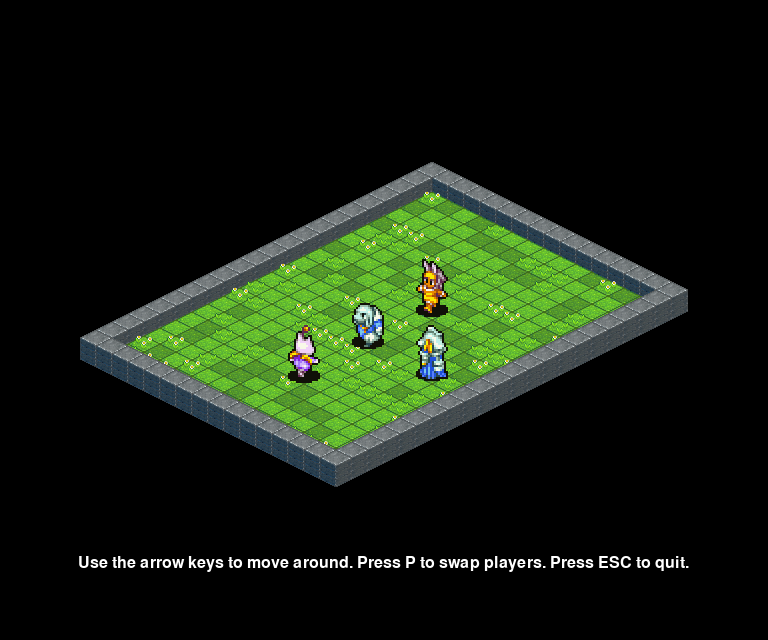
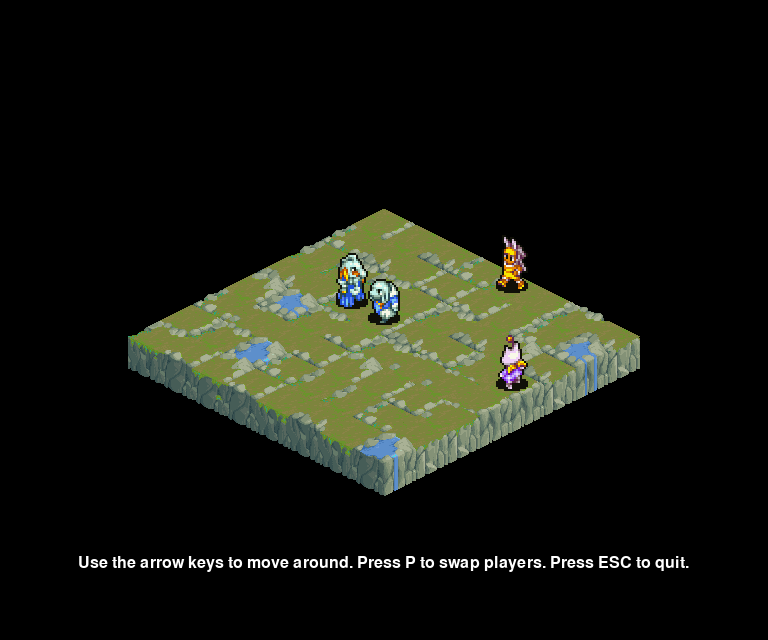
Added static objects and line of sight.

Changed region(s): [[0.0938, 0.25, 0.9062, 0.7812]]

diff --git a/actor.py b/actor.py
@@ -1,43 +1,36 @@
 from spritesheet import SpriteSheet
 import pygame
 import heapq
+from staticobject import StaticObject
+from math import sqrt, pow
 
 __facing_deltas__ = [(0,-1), (1,0), (0,1), (-1,0)]
 
 def manhattan_distance(a, b):
     return abs(a[0] - b[0]) + abs(a[1] - b[1])
 
-class Actor:
+def distance(a, b):
+    return round(sqrt(pow(a[0] - b[0], 2) + pow(a[1] - b[1], 2)))
+
+class Actor(StaticObject):
     def __init__(self, sprites, rects, pos, facing=3):
-        self.sprites = sprites
-        self.pos = pos
+        super().__init__(sprites, rects, pos)
         self.facing = facing
-        self.rects = rects
-        self.x, self.y = pos
         self.dx = 0
         self.dy = 0
         self.path_start = None
         self.path_end = None
         self.speed = 16
         self.moving = False
-        self.animated = type(sprites[0]) == list
         self.move_queue = list()
         self.frame = 0
         self.is_player = False
-        self.room = None
 
     def getMoving(self):
         return self.moving
 
     def get_facing_delta(self):
         return __facing_deltas__[self.facing % len(__facing_deltas__)]
-
-    def getPos(self):
-        return self.pos
-    
-    def setPos(self, pos):
-        self.x, self.y = pos
-        self.pos = pos
 
     def setIsPlayer(self, is_player):
         self.is_player = is_player
@@ -122,23 +115,23 @@ class Actor:
             self.path_end = (x1, y1)
             self.path_start = (x, y)
 
-    def draw(self, screen):
-        screen.blit(self.sprite, self.rect)
+    def line_of_sight(self, from_pos, to_pos, bad_spaces):
+        dist = manhattan_distance(from_pos, to_pos)
+        if dist == 0:
+            return True
+        
+        for i in range(dist):
+            x = int(from_pos[0] + (to_pos[0] - from_pos[0])/dist * i)
+            y = int(from_pos[1] + (to_pos[1] - from_pos[1])/dist * i)
 
-    def get_real_pos(self):
-        sx = self.x + self.y
-        sy = self.y - self.x
-        return (sy, sx)
+            if (x, y) != from_pos and (x, y) != to_pos and (x, y) in bad_spaces:
+                return False
 
-    def in_room(self, x, y):
-        if x < 0 or y < 0:
-            return False
-        if x >= self.room.width or y >= self.room.height:
-            return False
+
         return True
-
-    def good_pos(self, pos, player_pos):
-        return manhattan_distance(pos, player_pos) == 4
+        
+    def good_pos(self, pos, player_pos, bad_spaces):
+        return distance(pos, player_pos) == 4
 
     def pathfind(self, player, bad_spaces):
         if self.room != player.room or self.moving:
@@ -149,7 +142,7 @@ class Actor:
         closed_nodes = set()
         while heap:
             dist, pos, path = heapq.heappop(heap)
-            if self.good_pos(pos, player.getPos()):
+            if self.good_pos(pos, player.getPos(), bad_spaces):
                 if len(path):
                     self.move_to(*self.pos, *path[0])
                 return
@@ -165,9 +158,6 @@ class Actor:
                 if new_pos in bad_spaces:
                     continue
                 heapq.heappush(heap, (dist+1, new_pos, path + [new_pos]))
-
-    def __lt__(self, other):
-        return self.get_real_pos() < other.get_real_pos()
 
 class Babus (Actor):
     def __init__(self, pos):
@@ -191,7 +181,6 @@ class Babus (Actor):
         super().__init__([babus_u, babus_r, babus_d, babus_l, babus_jump], [
             (0, 0, 32, 48), (0, 0, 32, 48), (0, 0, 32, 48), (0, 0, 32, 48), (0, 0, 32, 60)], pos)
 
-
 class Archer (Actor):
     def __init__(self, pos):
         sprites = SpriteSheet('archer.png')
@@ -213,12 +202,9 @@ class Archer (Actor):
         super().__init__([archer_u, archer_r, archer_d, archer_l, archer_jump], [
             (0, 0, 32, 60), (0, 0, 32, 60), (0, 0, 32, 60), (0, 0, 32, 60), (0, 0, 32, 62)], pos)
         
-    def good_pos(self, pos, player_pos):
+    def good_pos(self, pos, player_pos, bad_spaces):
         dist = manhattan_distance(pos, player_pos)
-        return dist >= 3 and dist <= 5
-
-
-
+        return self.line_of_sight(pos, player_pos, bad_spaces) and dist >= 3 and dist <= 5
 
 class Templar (Actor):
     def __init__(self, pos):
@@ -241,8 +227,8 @@ class Templar (Actor):
         super().__init__([templar_u, templar_r, templar_d, templar_l, templar_jump], [
             (0, 0, 32, 56), (0, 0, 32, 56), (0, 0, 32, 56), (0, 0, 32, 56), (0, 0, 34, 66)], pos)
         
-    def good_pos(self, pos, player_pos):
-        dist = manhattan_distance(pos, player_pos)
+    def good_pos(self, pos, player_pos, bad_spaces):
+        dist = distance(pos, player_pos)
         return dist == 1
 
 class Mog (Actor):
@@ -264,8 +250,8 @@ class Mog (Actor):
         super().__init__([mog_u, mog_r, mog_d, mog_l, mog_jump], [
             (0, 0, 32, 56), (0, 0, 32, 56), (0, 0, 32, 56), (0, 0, 32, 56), (0, 0, 32, 68)], pos)
         
-    def good_pos(self, pos, player_pos):
-        return pos[0] == player_pos[0] or pos[1] == player_pos[1]
+    def good_pos(self, pos, player_pos, bad_spaces):
+        return self.line_of_sight(pos, player_pos, bad_spaces) and (pos[0] == player_pos[0] or pos[1] == player_pos[1])
 
 
 def find_actor(actors: list, move) -> Actor:

diff --git a/amulet.py b/amulet.py
@@ -4,8 +4,9 @@ from room import Room, init_rooms
 import sys
 from floor import Floor
 from random import randint, shuffle
-from actor import Babus, Archer, Templar, Mog
+from actor import Babus, Archer, Templar, Mog, Actor
 from functools import reduce
+from staticobject import StaticObject, Pillar
 
 class Amulet:
     def __init__(self):
@@ -91,12 +92,20 @@ class Amulet:
         self.alert = self.myfont.render(message, True, (255, 255, 0))
         self.alert_time = pygame.time.get_ticks()
 
+    def actors_in_room(self, room):
+        return list(actor for actor in self.actors if isinstance(actor, Actor) and actor.room == room)
+
+    def objects_in_room(self, room):
+        return list(actor for actor in self.actors if isinstance(actor, StaticObject) and actor.room == room)
+
     def game_loop(self):
         running = True
 
         while running:
             room = self.get_player_room()
             player = self.get_player()
+            actors = self.actors_in_room(room)
+            objects = self.objects_in_room(room)
 
             for event in pygame.event.get():
                 if event.type == pygame.QUIT:
@@ -127,21 +136,21 @@ class Amulet:
                     except AttributeError:
                         pass
                 elif event.type == self.animation_event:
-                    for actor in (a for a in self.actors if a.room == room):
+                    for actor in (a for a in actors if a.room == room):
                         actor.animate()
                         if actor != player:
                             actor.face_player(player.x, player.y)
                 elif event.type == self.movement_event:
-                    for actor in [a for a in self.actors if a.getMoving()]:
+                    for actor in [a for a in actors if a.getMoving()]:
                         actor.update()
-                    for actor in [a for a in self.actors if not a.getMoving() and not a.getIsPlayer()]:
-                        bad_spaces = set((b for a in self.actors if a.room == room for b in a.i_am_at()))
+                    for actor in [a for a in actors if not a.getMoving() and not a.getIsPlayer()]:
+                        bad_spaces = set((b for a in objects for b in a.i_am_at()))
                         actor.pathfind(player, bad_spaces)
 
 
             self.screen.fill((0, 0, 0))
 
-            room.draw(self.screen, self.actors)
+            room.draw(self.screen, objects)
 
             self.screen.blit(self.instructions, ((self.screen.get_width() - self.instructions.get_width())//2, \
                 self.screen.get_height() - 5 * self.instructions.get_height()))
@@ -178,6 +187,8 @@ def create_map(amulet: Amulet):
     amulet.actors.append(Archer(all_spaces.pop()))
     amulet.actors.append(Templar(all_spaces.pop()))
     amulet.actors.append(Mog(all_spaces.pop()))
+    for _ in range(4):
+        amulet.actors.append(Pillar(all_spaces.pop()))
     for actor in amulet.actors:
         actor.room = room
 

diff --git a/staticobject.py b/staticobject.py
@@ -1,0 +1,52 @@
+from spritesheet import SpriteSheet
+
+class StaticObject:
+    def __init__(self, sprites, rects, pos):
+        self.sprites = sprites
+        self.pos = pos
+        self.rects = rects
+        self.x, self.y = pos
+        self.animated = type(sprites[0]) == list
+        self.room = None
+
+    def getPos(self):
+        return self.pos
+    
+    def setPos(self, pos):
+        self.x, self.y = pos
+        self.pos = pos
+
+    def get_sprite(self):
+        return self.sprites[0]
+
+    def i_am_at(self):
+        return [self.pos]
+
+    def draw(self, screen):
+        screen.blit(self.sprite, self.rect)
+
+    def get_real_pos(self):
+        sx = self.x + self.y
+        sy = self.y - self.x
+        return (sy, sx)
+
+    def in_room(self, x, y):
+        if x < 0 or y < 0:
+            return False
+        if x >= self.room.width or y >= self.room.height:
+            return False
+        return True
+
+    def get_rect(self):
+        return self.rect
+
+    def __lt__(self, other):
+        return self.get_real_pos() < other.get_real_pos()
+
+class Pillar(StaticObject):
+    def __init__(self, pos):
+        sprites = SpriteSheet("iso-64x64-building_3.png").load_strip((64, 0, 64, 64), 1, colorkey = -1)
+        super().__init__(sprites, None, pos)
+        self.sprite = sprites[0]
+        self.rect = self.sprite.get_rect()
+        self.room = None
